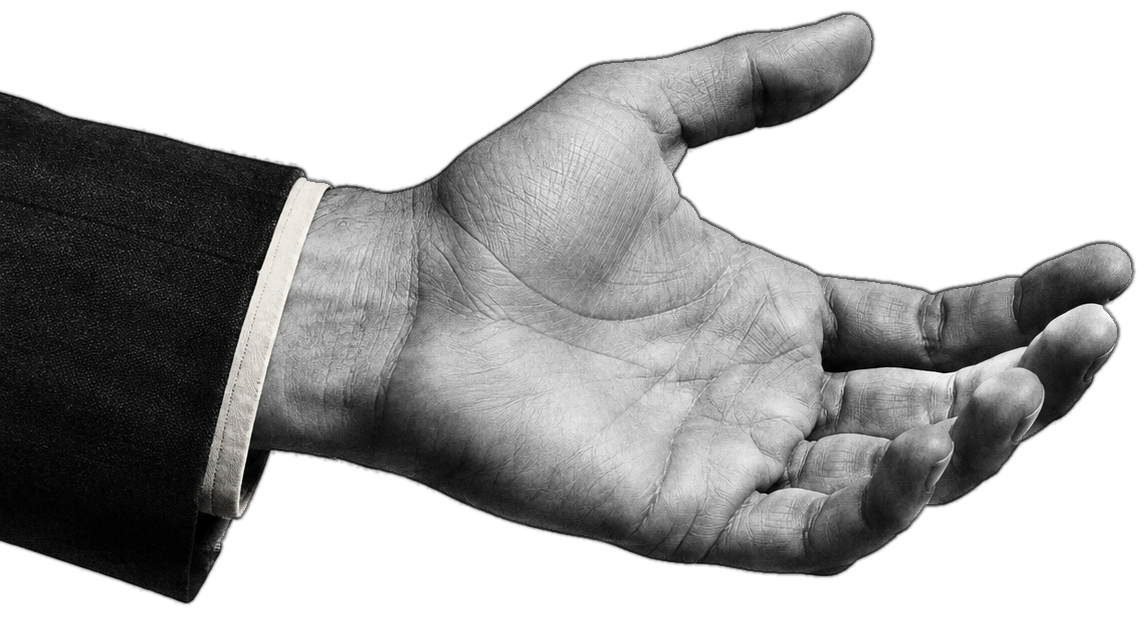
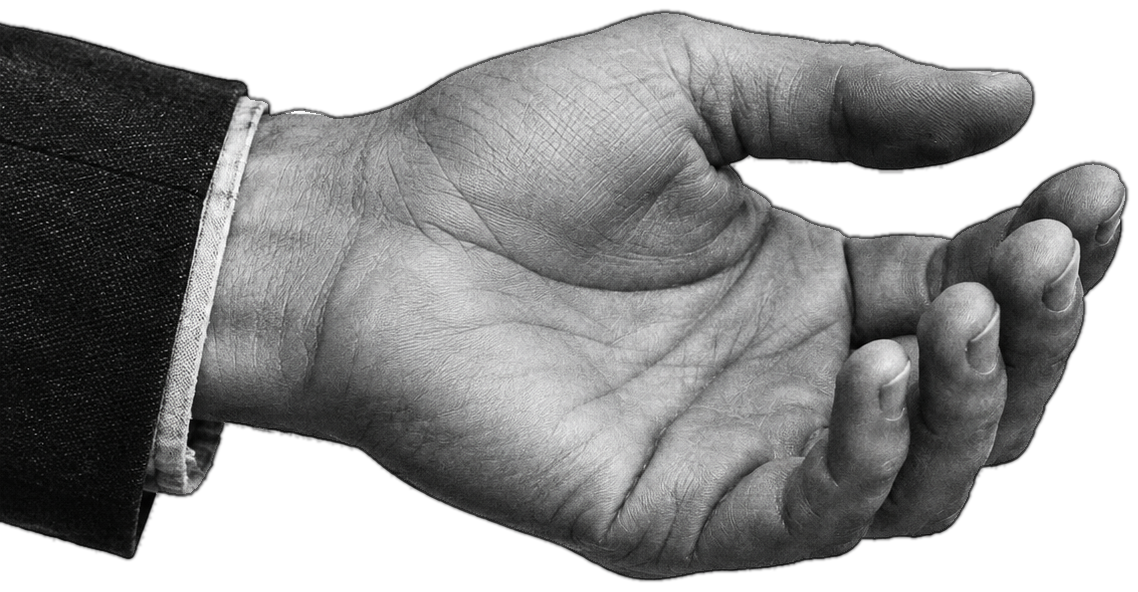
Make the palm-and-gear props travel with the page
The reference treats each gear as a prop resting in an open palm, and both
pages (title and leaderboard) have their own pair. The rebuild had them as a
screen-fixed foreground, so the hands stayed put while the sheet panned.

- new cupped-hand cut-outs keyed to RGBA (tools/cutout-assets.py)
- gear + palm grouped per page, moving with the poster camera
- page gap and whip-pan retimed so the props clear before the table lands
- refreshed preview frame

diff --git a/src/components/IntroCollage.tsx b/src/components/IntroCollage.tsx
@@ -130,7 +130,7 @@ export const Gear: React.FC<{
       height: size * 1.073,
       transform: `rotate(${rotate}deg)`,
       mixBlendMode: 'multiply',
-      filter: `grayscale(1) contrast(1.06) brightness(1.03) blur(${blur}px)`,
+      filter: `grayscale(1) contrast(1.02) brightness(1.12) blur(${blur}px)`,
       opacity,
     }}
   />
@@ -206,17 +206,73 @@ export const EdgeBands: React.FC = () => (
 
 
 /**
- * The two in-focus gears belong to the opening page. They ride out of frame
- * with the camera pan (no opacity tricks) so the multiply blend stays clean.
+ * Gear resting in an open palm.
+ *
+ * In the reference the two cut-outs are a single prop: the palm carries the
+ * gear and the pair travels with the sheet as the camera pans. They are not
+ * screen-fixed foreground.
  */
-export const IntroGears: React.FC = () => {
+const GearPalm: React.FC<{
+  gearLeft: number;
+  gearTop: number;
+  gearSize: number;
+  gearRotate: number;
+  handLeft: number;
+  handTop: number;
+  handWidth: number;
+  handRotate: number;
+  hand: 'left' | 'right';
+  blur?: number;
+}> = ({gearLeft, gearTop, gearSize, gearRotate, handLeft, handTop, handWidth, handRotate, hand, blur = 0}) => (
+  <>
+    <Img
+      src={staticFile(`assets/hand-${hand}.png`)}
+      style={{
+        position: 'absolute',
+        left: handLeft,
+        top: handTop,
+        width: handWidth,
+        transform: `rotate(${handRotate}deg)`,
+        filter: `grayscale(1) contrast(1.02) brightness(1.12) blur(${blur}px)`,
+        opacity: 0.76,
+      }}
+    />
+    <Gear left={gearLeft} top={gearTop} size={gearSize} rotate={gearRotate} />
+  </>
+);
+
+/** The two opening props: small gear on the left palm, big gear on the right. */
+export const IntroProps: React.FC = () => {
   const frame = useCurrentFrame();
-  const spin = frame * 0.18;
+  const float = Math.sin(frame / 38) * 3;
+  const spin = frame * 0.14;
 
   return (
     <>
-      <Gear left={320} top={560} size={214} rotate={-6 + spin} />
-      <Gear left={1128} top={430} size={330} rotate={4 + spin * 0.6} />
+      <GearPalm
+        gearLeft={345}
+        gearTop={715 + float}
+        gearSize={212}
+        gearRotate={-6 + spin}
+        handLeft={120}
+        handTop={800}
+        handWidth={600}
+        handRotate={-2}
+        hand="left"
+        blur={1.5}
+      />
+      <GearPalm
+        gearLeft={1172}
+        gearTop={642 - float}
+        gearSize={296}
+        gearRotate={5 + spin * 0.6}
+        handLeft={1132}
+        handTop={700}
+        handWidth={612}
+        handRotate={1.5}
+        hand="right"
+        blur={1.5}
+      />
     </>
   );
 };

diff --git a/src/components/Foreground.tsx b/src/components/Foreground.tsx
@@ -9,16 +9,16 @@ import {Img, staticFile, useCurrentFrame, interpolate} from 'remotion';
  */
 export const FloatingDebris: React.FC = () => {
   const frame = useCurrentFrame();
-  const drift = Math.sin(frame / 48) * 6;
 
-  // hands sit closer to the lens than the sheet: they stay anchored to the
-  // bottom of frame while the poster pans, then defocus for the table.
-  const tableIn = interpolate(frame, [66, 96], [0, 1], {
+  // the table page has its own defocused props; they fade in as the first
+  // page (with its palm-and-gear pair) leaves the top of frame
+  const tableIn = interpolate(frame, [52, 74], [0, 1], {
     extrapolateLeft: 'clamp',
     extrapolateRight: 'clamp',
   });
-  const handOpacity = 0.78 - tableIn * 0.6;
-  const handBlur = 2.4 + tableIn * 9;
+  const drift = Math.sin(frame / 48) * 6 + (1 - tableIn) * 120;
+  const handOpacity = tableIn * 0.5;
+  const handBlur = 5 + tableIn * 6;
 
   const gears = [
     {left: -170, top: 640, size: 430, blur: 11, opacity: 0.26, rotate: 12},

diff --git a/src/LongLinkTest.tsx b/src/LongLinkTest.tsx
@@ -3,7 +3,7 @@ import {AbsoluteFill, useCurrentFrame} from 'remotion';
 import {POSTER, STAGE} from './theme';
 import {Camera} from './components/Camera';
 import {PaperStock} from './components/Paper';
-import {DottedChain, IntroGears, IntroTitle} from './components/IntroCollage';
+import {DottedChain, IntroProps, IntroTitle} from './components/IntroCollage';
 import {ScoreTable} from './components/ScoreTable';
 import {MarkerHighlight} from './components/Marker';
 import {Captions} from './components/Captions';
@@ -31,8 +31,8 @@ export const LongLinkTest: React.FC = () => {
 
           {/* ---- opening collage ---- */}
           <IntroTitle />
-          <IntroGears />
-          <DottedChain x={948} from={640} to={986} />
+          <IntroProps />
+          <DottedChain x={948} from={640} to={1400} />
 
           {/* ---- leaderboard ---- */}
           <div

diff --git a/src/timeline.ts b/src/timeline.ts
@@ -28,8 +28,8 @@ const clamp = {extrapolateLeft: 'clamp', extrapolateRight: 'clamp'} as const;
 export const cameraOffset = (frame: number): number =>
   interpolate(
     frame,
-    [0, 20, 30, 45, 57, 65, 74, 88, 240],
-    [0, 0, 26, 170, 530, 648, 737, 752, 756],
+    [0, 20, 29, 43, 51, 57, 63, 72, 86, 240],
+    [0, 0, 26, 200, 540, 935, 1040, 1140, 1148, 1150],
     {...clamp, easing: Easing.inOut(Easing.cubic)},
   );
 

diff --git a/src/theme.ts b/src/theme.ts
@@ -44,9 +44,9 @@ export const POSTER = {
   width: 1920,
   height: 2600,
   /** Poster-space y of the table block (title sits at local y = 0). */
-  tableTop: 1037,
+  tableTop: 1440,
   /** Final camera offset; table title lands at screen y = 295. */
-  tableOffset: 742,
+  tableOffset: 1148,
 } as const;
 
 /** Table geometry, in table-local pixels (screen space at rest). */
